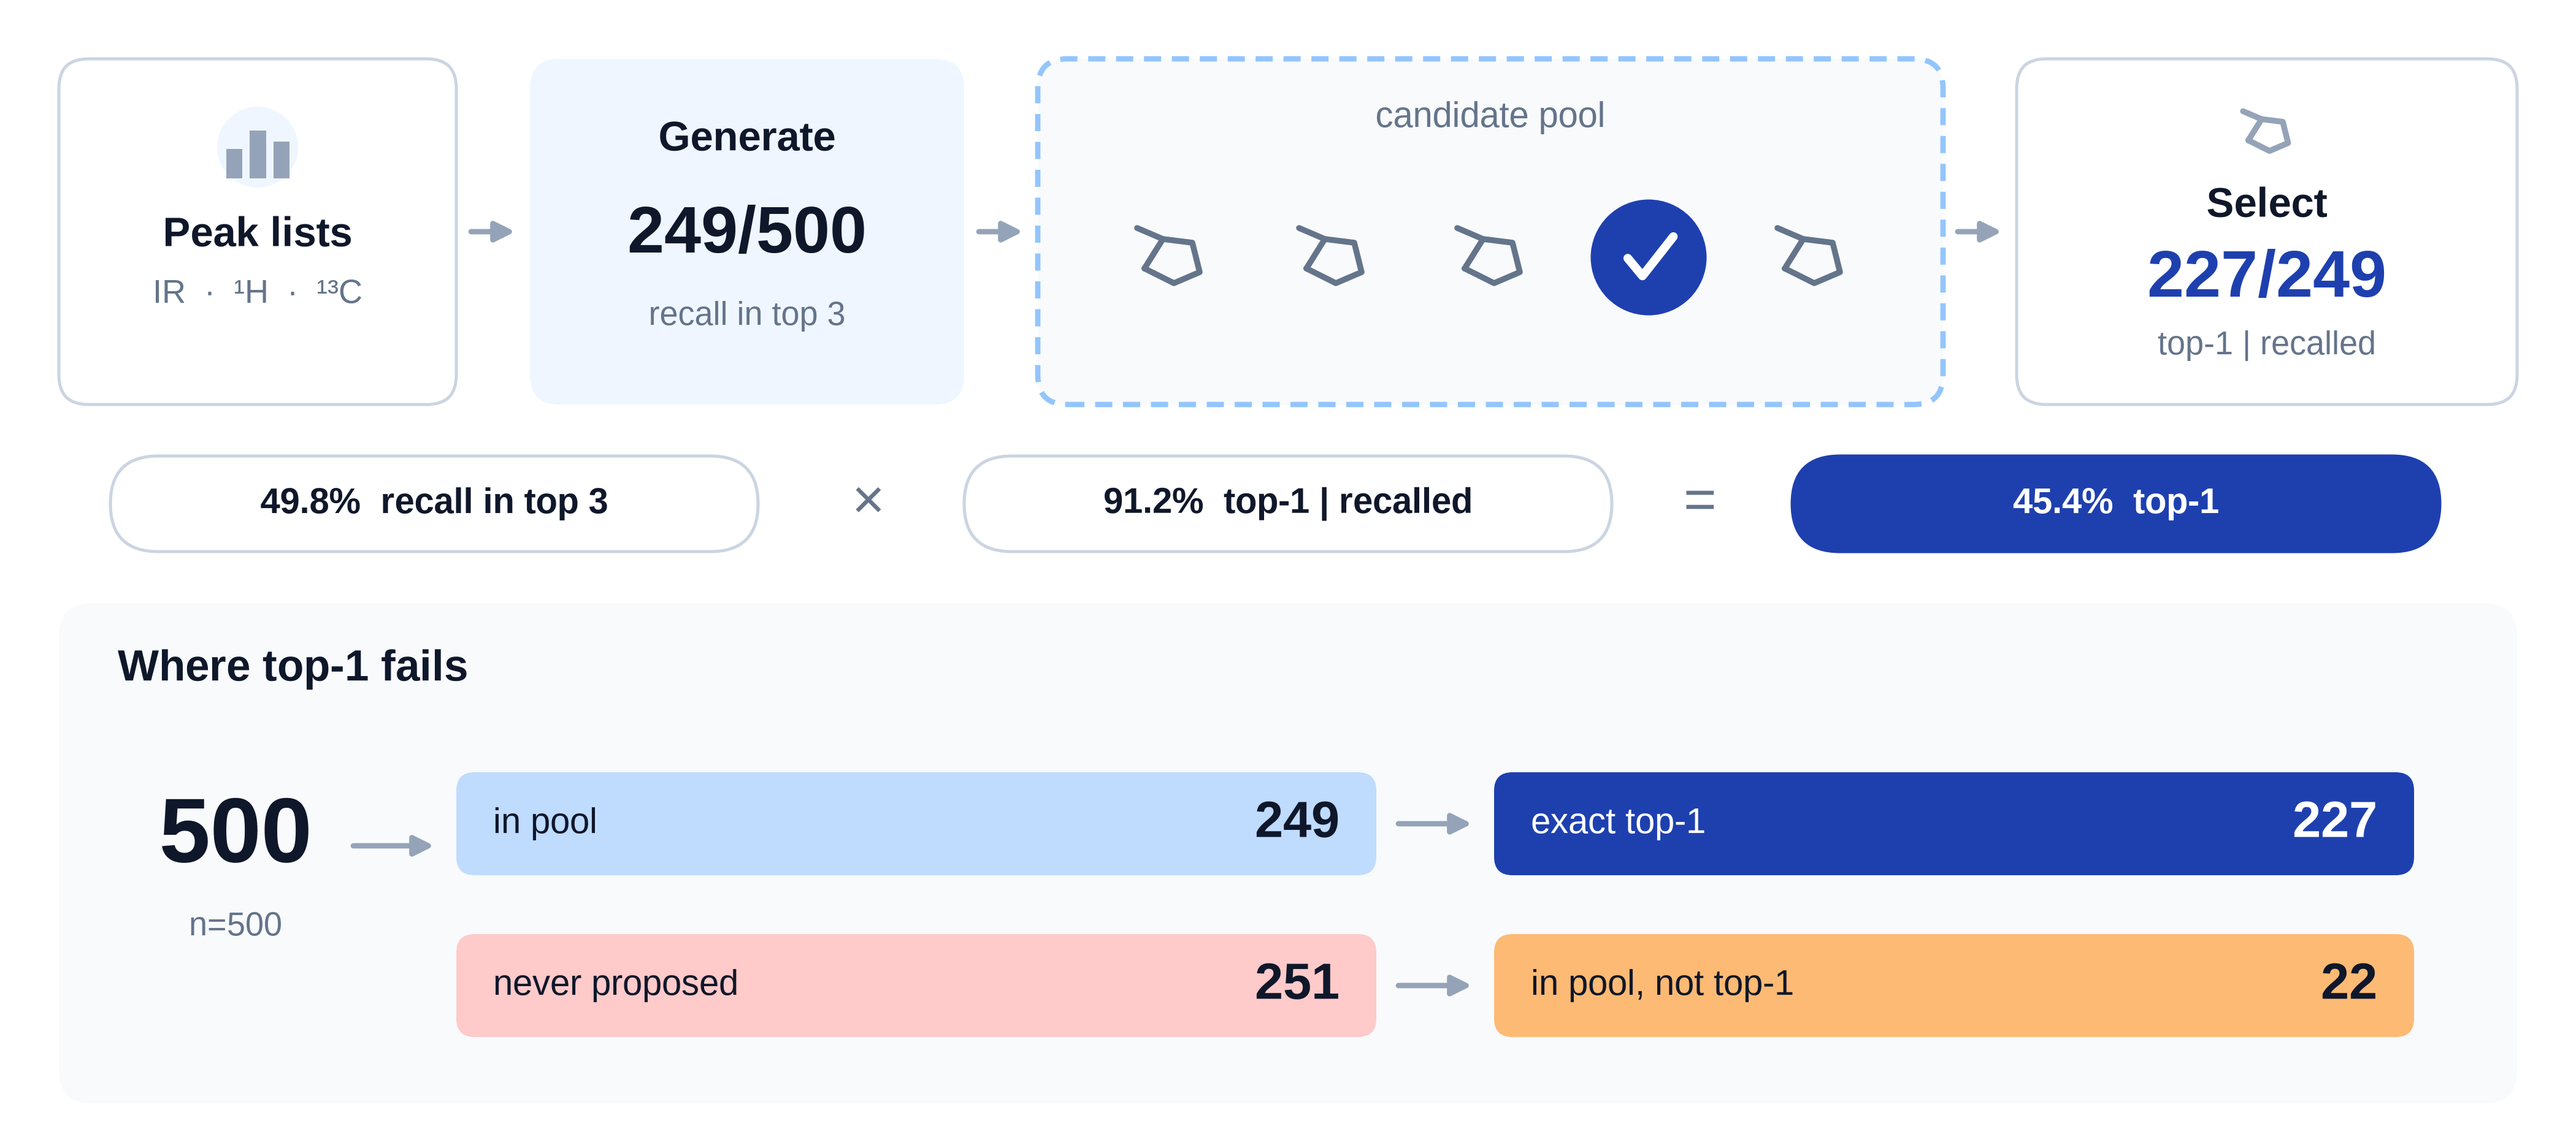
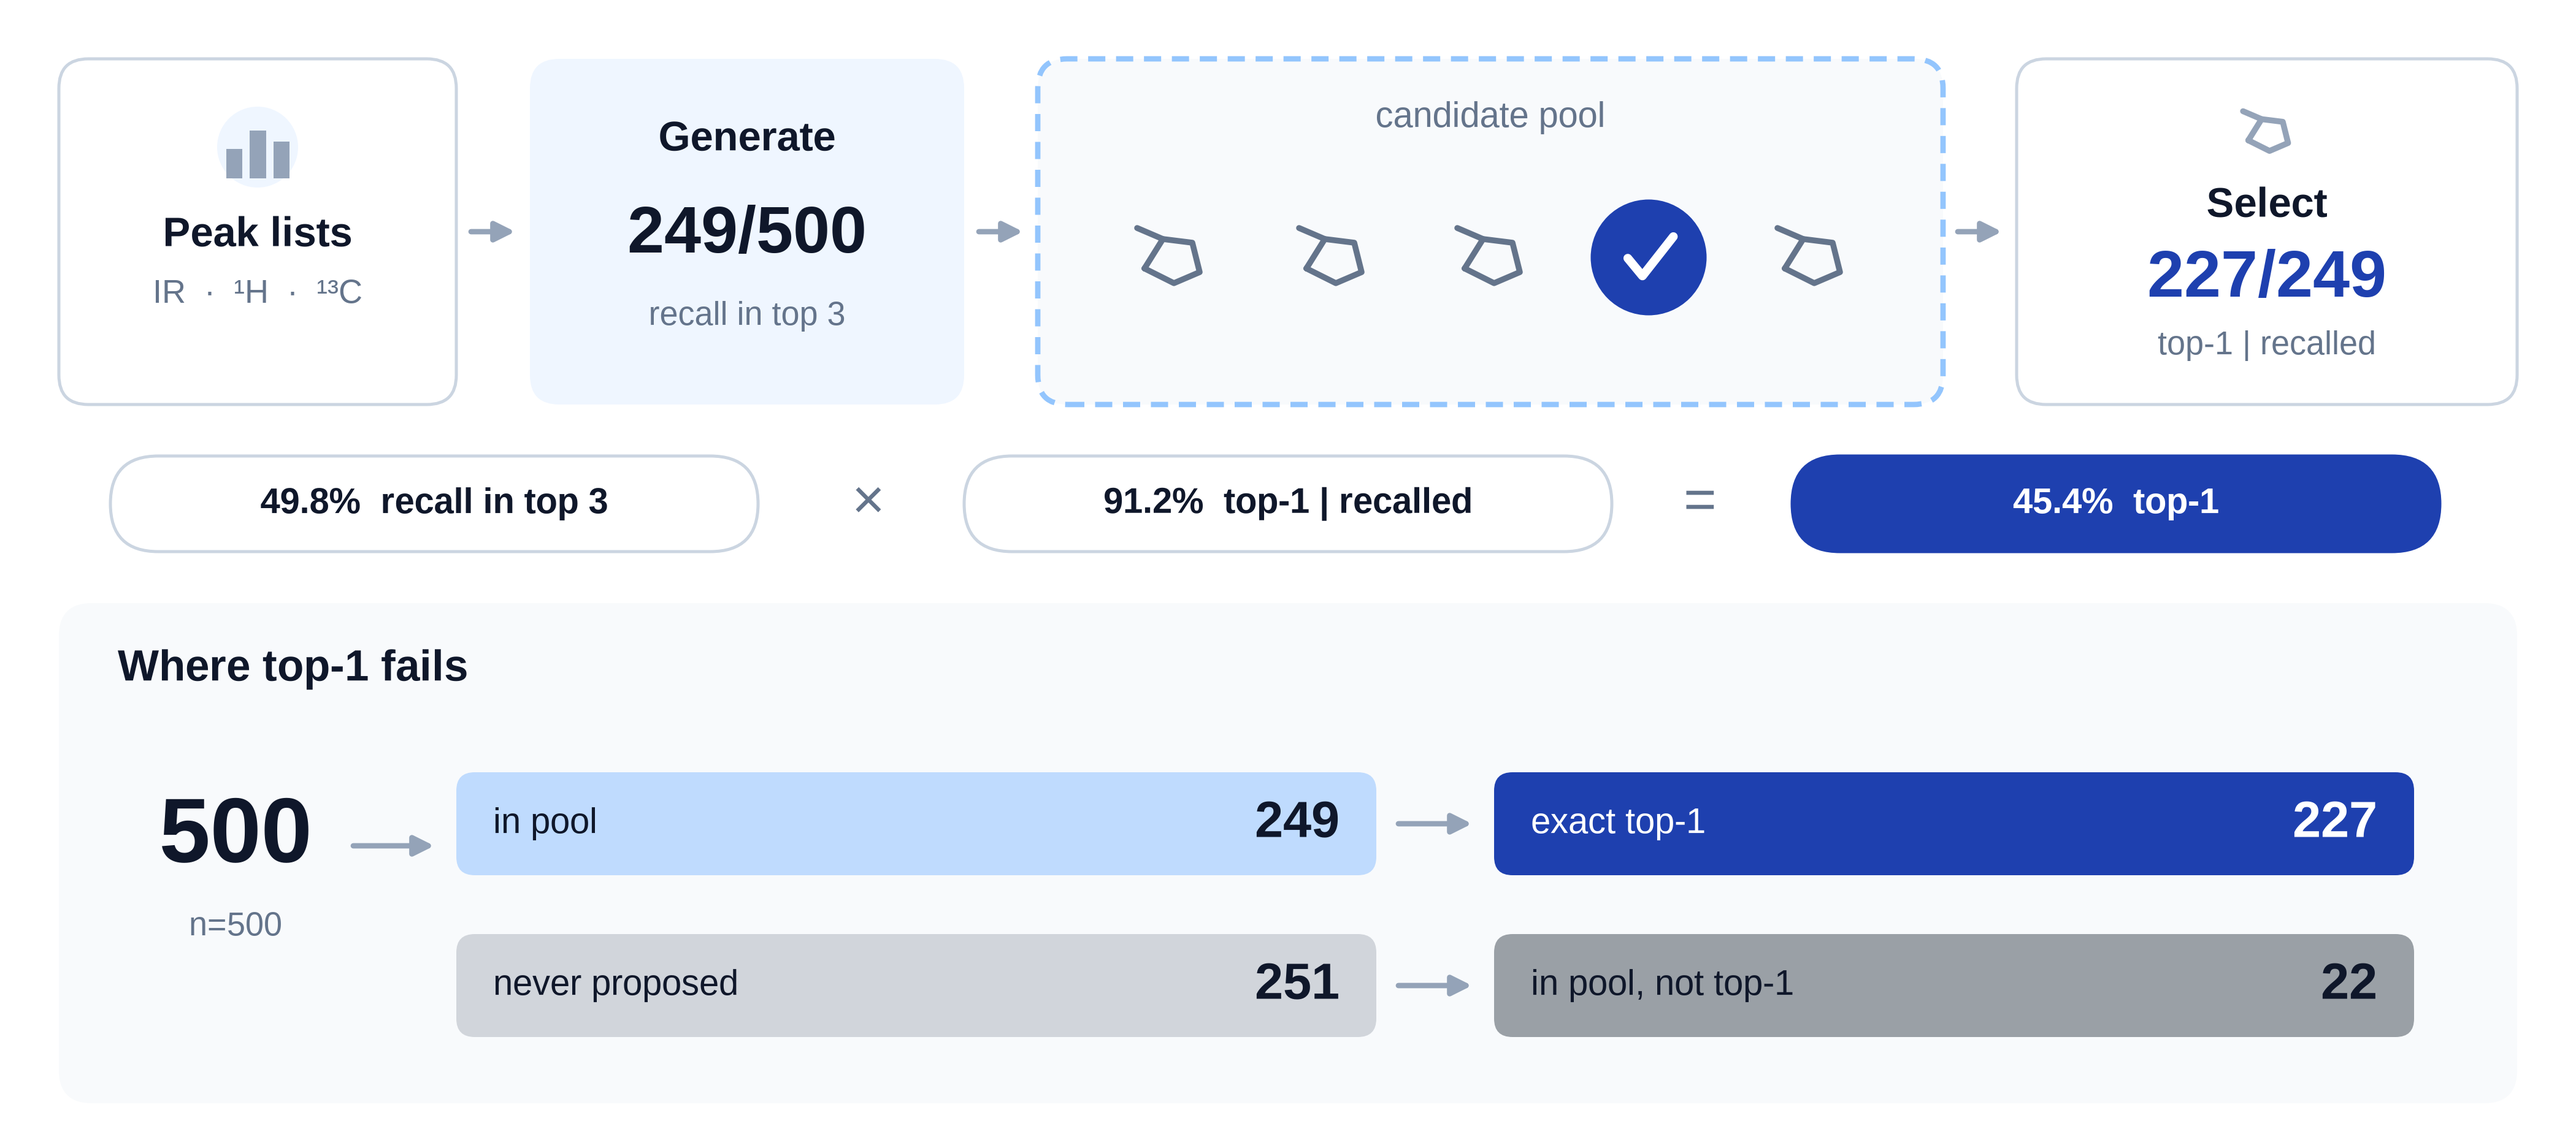
fix figure export

Changed region(s): [[0.156, 0.8108, 0.9357, 0.9355]]

diff --git a/scripts/make_fig_wall.py b/scripts/make_fig_wall.py
@@ -155,8 +155,8 @@ def write_svg(path: Path, width: float = 504.0, height: float = 102.0) -> None:
 # Lead Fig 1 chrome — protocol dashboard matching the merged gen plate.
 C_NAVY = "#1e40af"
 C_SKY = "#bfdbfe"
-C_PINK = "#fecaca"
-C_AMBER = "#fdba74"
+C_GRAY = "#D1D5DB"
+C_GRAY_DEEP = "#9AA0A6"
 C_CARD = "#eff6ff"
 C_PANEL = "#f8fafc"
 C_DASH = "#93c5fd"
@@ -333,9 +333,9 @@ def write_fig1(path: Path) -> None:
     _funnel(124, 72, 250, 28, C_SKY, "in pool", GEN_RECALL)
     _arrow(ax, 380, 400, 86)
     _funnel(406, 72, 250, 28, C_NAVY, "exact top-1", GEN_TOP1, dark=True)
-    _funnel(124, 28, 250, 28, C_PINK, "never proposed", GEN_NEVER)
+    _funnel(124, 28, 250, 28, C_GRAY, "never proposed", GEN_NEVER)
     _arrow(ax, 380, 400, 42)
-    _funnel(406, 28, 250, 28, C_AMBER, "in pool, not top-1", GEN_NOT_TOP1)
+    _funnel(406, 28, 250, 28, C_GRAY_DEEP, "in pool, not top-1", GEN_NOT_TOP1)
 
     out = path.with_suffix("")
     fig.savefig(str(out) + ".pdf", facecolor="white")
